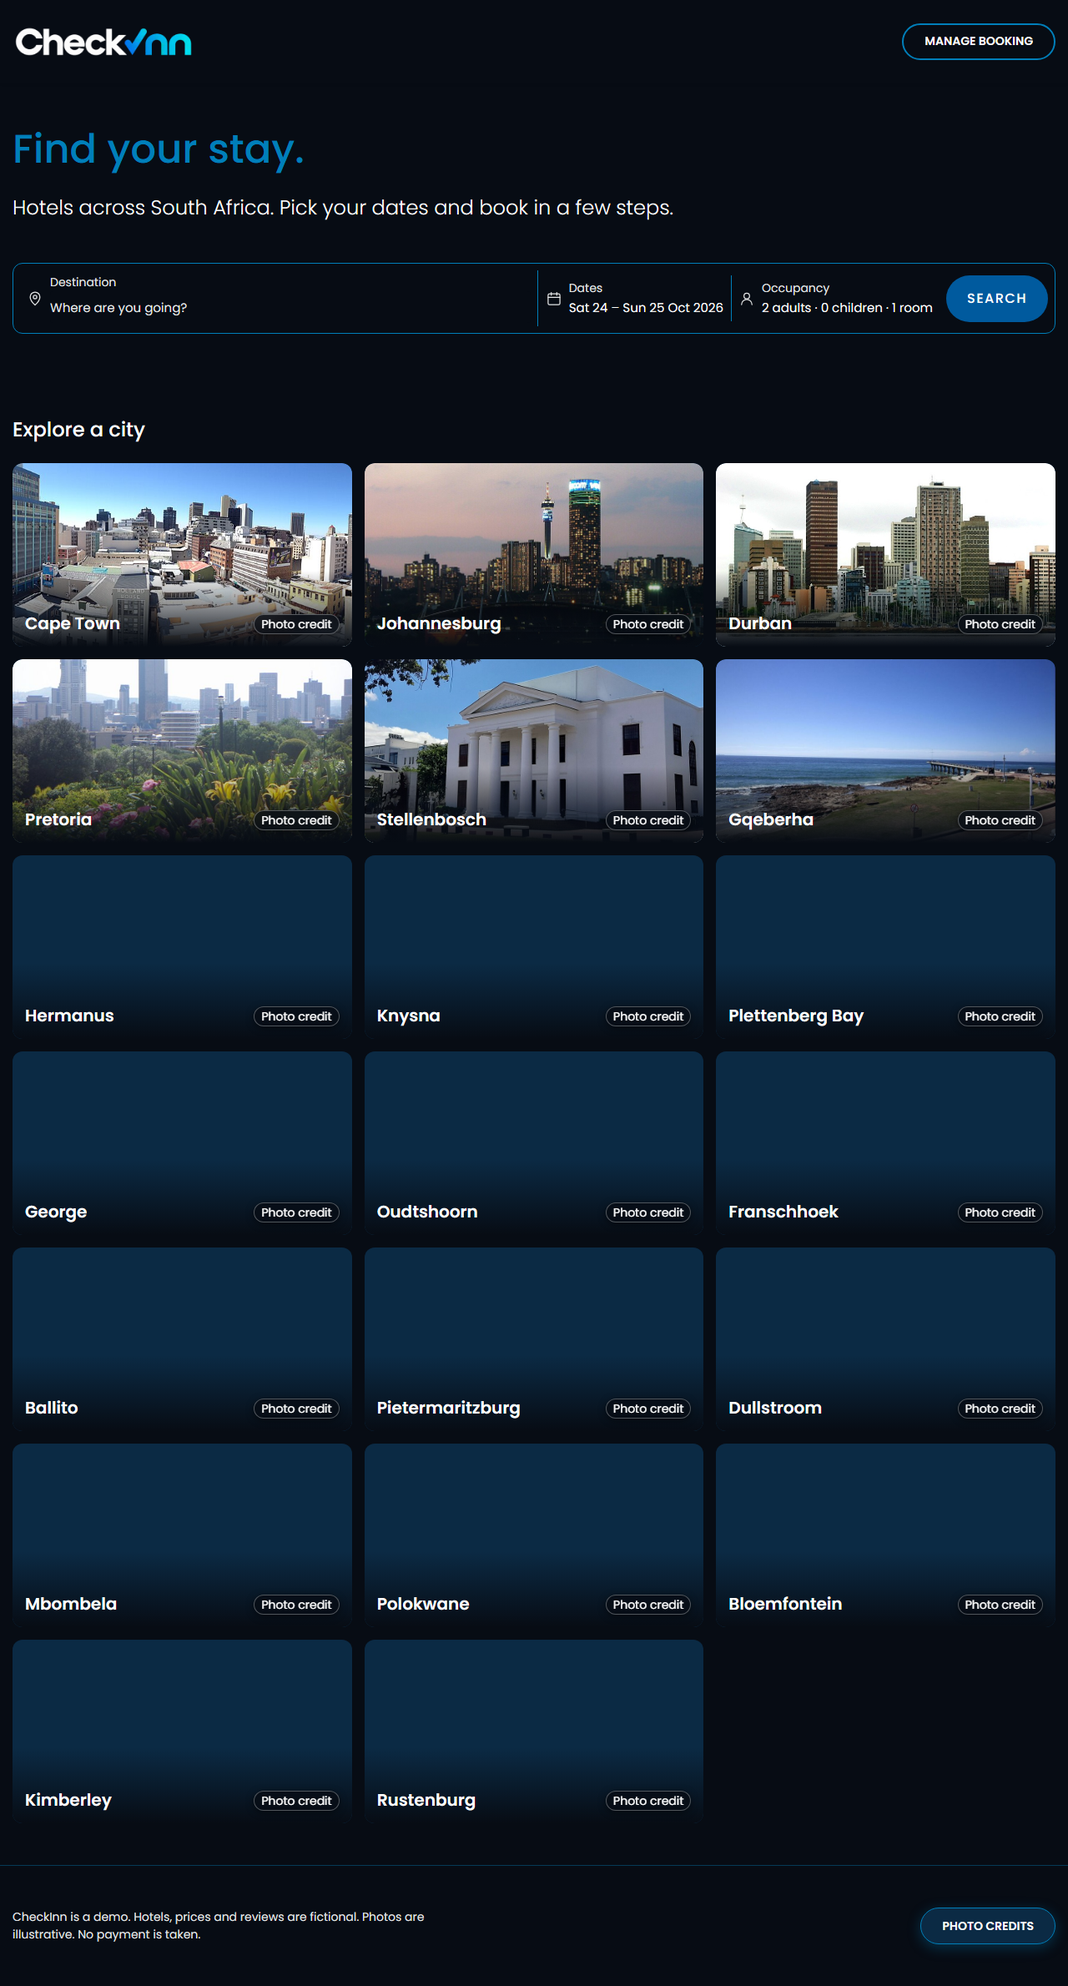
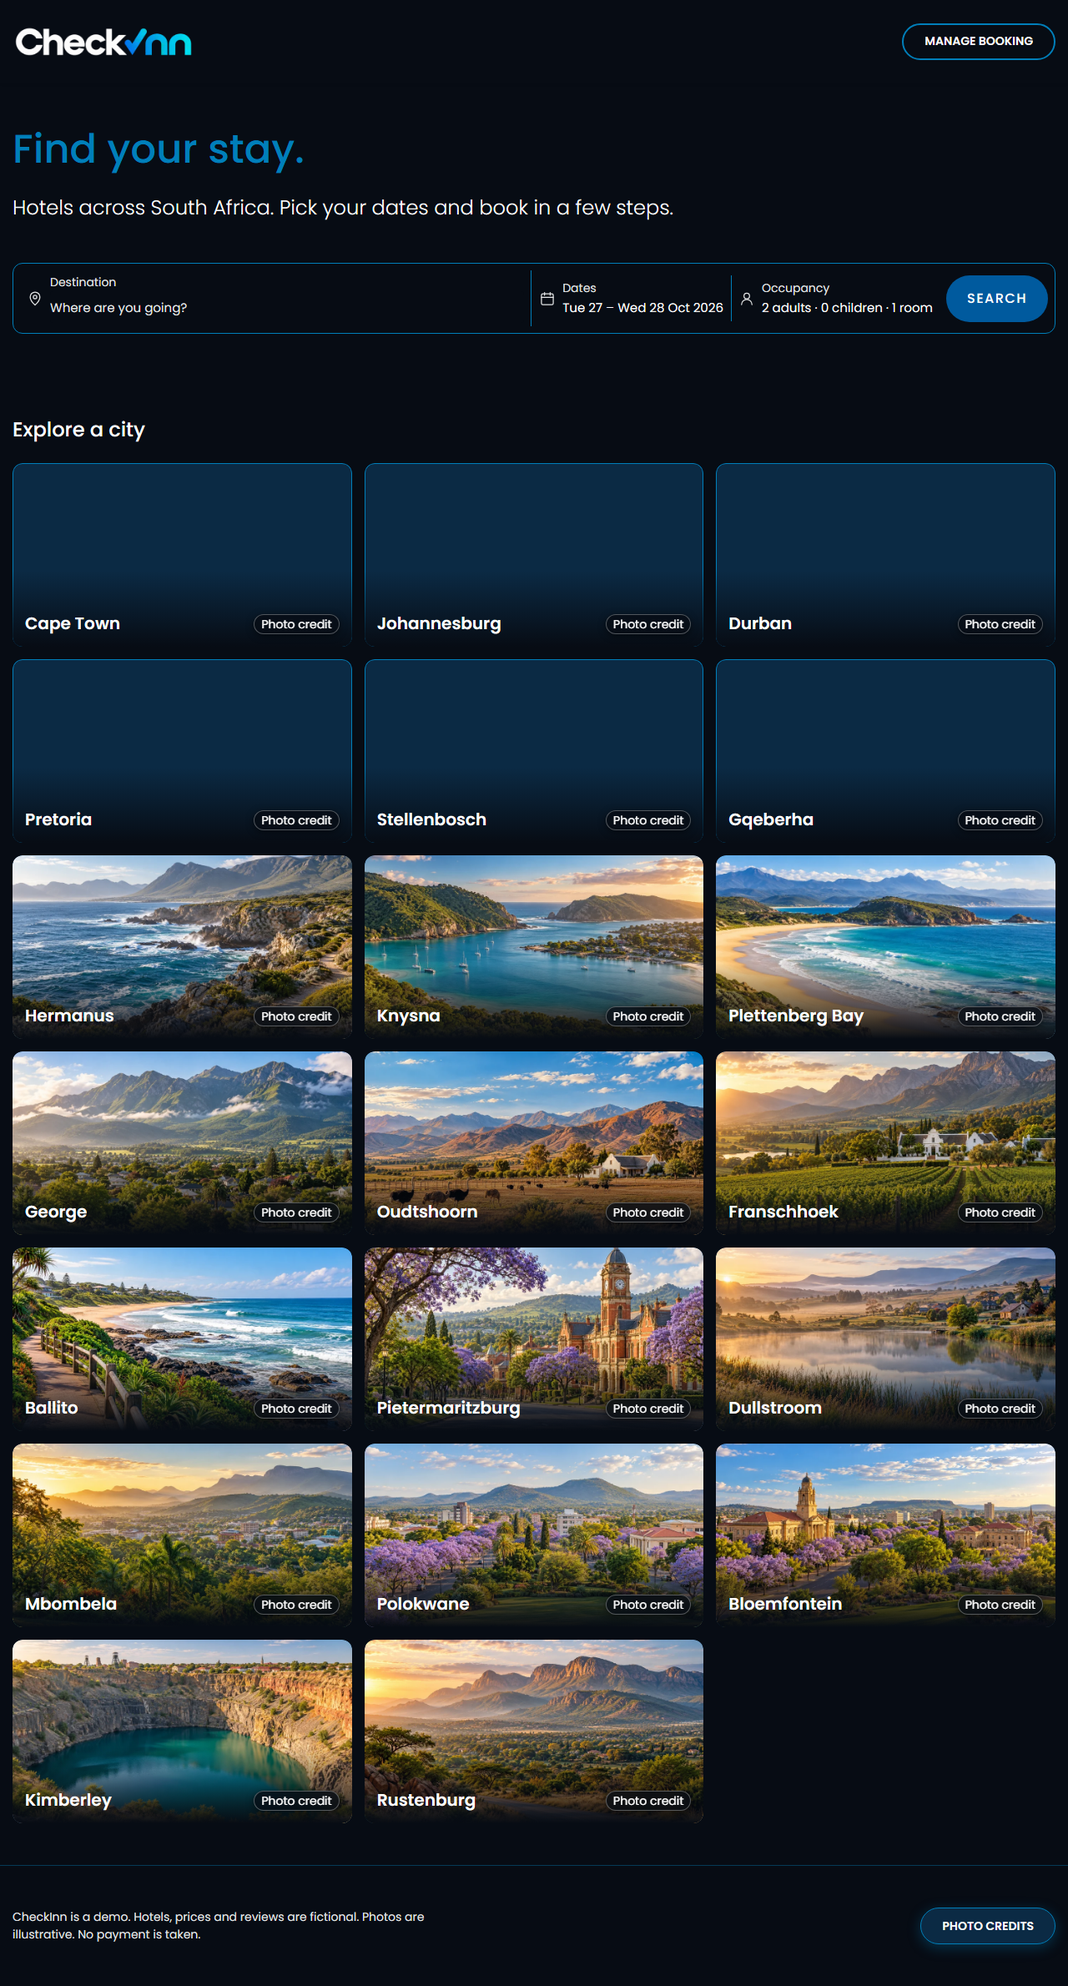
feat(data): add generated destination landscape images

diff --git a/e2e/home.spec.ts b/e2e/home.spec.ts
@@ -81,7 +81,7 @@ test.describe("Home page", () => {
     }
   });
 
-  test("shows placeholders with the name when photos are blocked", async ({
+  test("loads local destination images while remote photos show placeholders", async ({
     page,
   }) => {
     // Seed photos are aborted in beforeEach.
@@ -93,16 +93,35 @@ test.describe("Home page", () => {
       await tile.scrollIntoViewIfNeeded();
       const city = (await tile.getAttribute("aria-label")) ?? "";
 
-      const placeholder = tile.getByRole("img", {
+      const image = tile.getByRole("img", {
         name: /destination photograph/,
       });
-      await expect(placeholder).toBeVisible();
-      // Proves the failed <img> is gone; the placeholder also has role img.
-      await expect(tile.locator("img")).toHaveCount(0);
+      await expect(image).toBeVisible();
+      if ((await image.getAttribute("aria-label")) === null) {
+        await expect(image).toHaveAttribute("src", /^\/images\/destinations\//);
+        await expect(image).toHaveAttribute("alt", /^AI-generated/);
+        await expect.poll(() => image.evaluate((element) => (element as HTMLImageElement).naturalWidth)).toBeGreaterThan(0);
+      } else {
+        // A failed remote <img> is replaced by the labelled placeholder.
+        await expect(tile.locator("img")).toHaveCount(0);
+      }
       await expect(tile.getByText(city, { exact: true })).toBeVisible();
       await expect(
         page.getByRole("link", { name: `Photo credit: ${city}` }),
       ).toBeVisible();
+    }
+  });
+
+  test("shows named placeholders if local destination images also fail", async ({ page }) => {
+    await page.route("**/images/destinations/**", (route) => route.abort());
+    await page.goto("/");
+    const tiles = cityTiles(page);
+    await expect(tiles).toHaveCount(20);
+    for (const tile of await tiles.all()) {
+      await tile.scrollIntoViewIfNeeded();
+      await expect(tile.getByRole("img")).toBeVisible();
+      await expect(tile.locator("img")).toHaveCount(0);
+      await expect(tile.getByText((await tile.getAttribute("aria-label")) ?? "", { exact: true })).toBeVisible();
     }
   });
 

diff --git a/src/db/seed.test.ts b/src/db/seed.test.ts
@@ -1,5 +1,7 @@
 // @vitest-environment node
 import { createHash } from "node:crypto";
+import { readFileSync } from "node:fs";
+import path from "node:path";
 import { describe, expect, it } from "vitest";
 import { loadSeed } from "@/db/seed";
 
@@ -73,7 +75,7 @@ describe("demo catalog", () => {
     }
   });
 
-  it("reuses illustrative stock with attribution and honest destination labels", () => {
+  it("keeps hotel stock attribution and distinct local AI destination images", () => {
     const originals = new Map(seed.hotels.slice(0, 12).flatMap((hotel) => hotel.images.map((image) => [image.url, image])));
     for (const hotel of seed.hotels) {
       expect(hotel.images).toHaveLength(2);
@@ -85,11 +87,18 @@ describe("demo catalog", () => {
         expect(image.alt.length).toBeGreaterThan(0);
       }
     }
-    for (const city of seed.cities.slice(6)) {
-      expect(originals.has(city.image.url)).toBe(true);
+    const generatedCities = seed.cities.slice(6);
+    expect(new Set(generatedCities.map((city) => city.image.url)).size).toBe(14);
+    for (const city of generatedCities) {
+      expect(city.image.url).toBe(`/images/destinations/${city.id}.webp`);
+      expect(city.image.sourceUrl).toBe(city.image.url);
       expect(city.image.isIllustrative).toBe(true);
+      expect(city.image.alt).toContain(`AI-generated landscape inspired by ${city.name}`);
       expect(city.image.alt).toContain("not a destination photograph");
-      expect(city.image.creditInstructions).toContain("https://unsplash.com/license");
+      expect(city.image.creditInstructions).toContain("AI-generated with OpenAI ImageGen");
+      const asset = readFileSync(path.join(process.cwd(), "public", city.image.url));
+      expect(asset.subarray(0, 4).toString()).toBe("RIFF");
+      expect(asset.subarray(8, 12).toString()).toBe("WEBP");
     }
   });
 });

diff --git a/e2e/offline.spec.ts b/e2e/offline.spec.ts
@@ -23,14 +23,23 @@ test("Home → Cape Town search → Hotel page → photo viewer, all with the ne
 }) => {
   const network = await blockNetwork(page, baseURL);
 
-  // Home: City tiles show their placeholders with the City name.
+  // Home: remote photos show placeholders; local AI destination images still load.
   await page.goto("/");
   await expect(page.getByRole("heading", { level: 1, name: "Find your stay." })).toBeVisible();
   const tiles = page
     .getByRole("region", { name: "Explore a city" })
     .getByRole("link", { name: /^(?!Photo credit: )/ });
   await expect(tiles).toHaveCount(20);
-  await expectPlaceholders(tiles, 20);
+  const generatedTiles = tiles.filter({ has: page.getByRole("img", { name: /^AI-generated/ }) });
+  await expect(generatedTiles).toHaveCount(14);
+  await expectPlaceholders(tiles.filter({ hasNot: page.getByRole("img", { name: /^AI-generated/ }) }), 6);
+  for (const tile of await generatedTiles.all()) {
+    await tile.scrollIntoViewIfNeeded();
+    const image = tile.getByRole("img", { name: /^AI-generated/ });
+    await expect(image).toBeVisible();
+    await expect(image).toHaveAttribute("src", /^\/images\/destinations\//);
+    await expect.poll(() => image.evaluate((element) => (element as HTMLImageElement).naturalWidth)).toBeGreaterThan(0);
+  }
   for (const city of ["Cape Town", "Johannesburg", "Durban", "Pretoria", "Stellenbosch", "Gqeberha"]) {
     await expect(
       tiles.getByRole("img", { name: `${city} destination photograph`, exact: true }),

diff --git a/public/images/destinations/PROMPTS.md b/public/images/destinations/PROMPTS.md
@@ -1,0 +1,59 @@
+# Generated destination images
+
+Generated with the built-in OpenAI ImageGen tool on 26 October 2026. These are illustrative scenes inspired by each destination, not documentary photographs or verified depictions of specific buildings or properties. The original six destination photographs are unchanged. Generated PNG masters remain in the Codex generated-images folder; the application uses local 960 × 640 WebP copies.
+
+## hermanus.webp
+
+Use case: photorealistic-natural. Asset: landscape destination tile for a South African travel website, 3:2 horizontal composition. Generate an evocative editorial travel image inspired by Hermanus: rugged rocky coastal cliffs above deep blue Atlantic water, coastal fynbos and a winding clifftop path, distant mountains and soft sea spray, clear gentle morning light. Natural realistic textures, tasteful travel photography, rich but believable colours. Broad scenic view, main features centred and readable at small card size, lower quarter visually simple for a white UI destination label added separately. No text, lettering, logos, watermark, borders, hotel bedrooms, people close-up or invented landmark buildings. This is an illustrative AI-generated scene, not an exact documentary photograph. Produce one finished standalone image.
+
+## knysna.webp
+
+Use case: photorealistic-natural. Asset: one standalone 3:2 horizontal landscape destination tile for a South African hotel-booking website. Scene inspired by Knysna: An expansive turquoise lagoon opening to the ocean between two dramatic green headlands, forested hills, small waterside town and moored sailing boats; serene Garden Route late-afternoon light. Natural realistic textures, tasteful editorial travel photography, rich but believable colours. Broad scenic view, main features centred and readable at small card size, lower quarter visually simple for white UI labels added separately. No text, lettering, logos, watermark, borders, bedrooms, close-up people or imaginary famous monuments. Illustrative AI-generated travel scene rather than an exact documentary photograph. Produce one finished image.
+
+## plettenberg-bay.webp
+
+Use case: photorealistic-natural. Asset: one standalone 3:2 horizontal landscape destination tile for a South African hotel-booking website. Scene inspired by Plettenberg Bay: A broad golden beach curving around clear turquoise surf, a rugged green coastal peninsula in the distance and layered coastal mountains; bright inviting natural light. Natural realistic textures, tasteful editorial travel photography, rich but believable colours. Broad scenic view, main features centred and readable at small card size, lower quarter visually simple for white UI labels added separately. No text, lettering, logos, watermark, borders, bedrooms, close-up people or imaginary famous monuments. Illustrative AI-generated travel scene rather than an exact documentary photograph. Produce one finished image.
+
+## george.webp
+
+Use case: photorealistic-natural. Asset: one standalone 3:2 horizontal landscape destination tile for a South African hotel-booking website. Scene inspired by George: The green Outeniqua mountains rising behind a leafy South African town, rolling foothills, quiet tree-lined streets and low-rise rooftops; crisp morning light after rain. Natural realistic textures, tasteful editorial travel photography, rich but believable colours. Broad scenic view, main features centred and readable at small card size, lower quarter visually simple for white UI labels added separately. No text, lettering, logos, watermark, borders, bedrooms, close-up people or imaginary famous monuments. Illustrative AI-generated travel scene rather than an exact documentary photograph. Produce one finished image.
+
+## oudtshoorn.webp
+
+Use case: photorealistic-natural. Asset: one standalone 3:2 horizontal landscape destination tile for a South African hotel-booking website. Scene inspired by Oudtshoorn: A sunlit Little Karoo landscape with ochre earth, open ostrich-farm fields, a modest white rural farmhouse and folded semi-arid mountain ranges; warm clear light and immense sky. Natural realistic textures, tasteful editorial travel photography, rich but believable colours. Broad scenic view, main features centred and readable at small card size, lower quarter visually simple for white UI labels added separately. No text, lettering, logos, watermark, borders, bedrooms, close-up people or imaginary famous monuments. Illustrative AI-generated travel scene rather than an exact documentary photograph. Produce one finished image.
+
+## franschhoek.webp
+
+Use case: photorealistic-natural. Asset: one standalone 3:2 horizontal landscape destination tile for a South African hotel-booking website. Scene inspired by Franschhoek: Orderly green vineyard rows leading towards white Cape Dutch farm architecture, a lush valley and dramatic folded mountains; warm late-afternoon light and an elegant winelands atmosphere. Natural realistic textures, tasteful editorial travel photography, rich but believable colours. Broad scenic view, main features centred and readable at small card size, lower quarter visually simple for white UI labels added separately. No text, lettering, logos, watermark, borders, bedrooms, close-up people or imaginary famous monuments. Illustrative AI-generated travel scene rather than an exact documentary photograph. Produce one finished image.
+
+## ballito.webp
+
+Use case: photorealistic-natural. Asset: one standalone 3:2 horizontal landscape destination tile for a South African hotel-booking website. Scene inspired by Ballito: A scenic Dolphin Coast promenade beside pale golden sand, dark coastal rock pools and rolling warm blue Indian Ocean waves, lush subtropical coastal vegetation and a few distant beachfront rooftops; bright relaxed morning light. Natural realistic textures, tasteful editorial travel photography, rich but believable colours. Broad scenic view, main features centred and readable at small card size, lower quarter visually simple for white UI labels added separately. No text, lettering, logos, watermark, borders, bedrooms, close-up people or imaginary famous monuments. Illustrative AI-generated travel scene rather than an exact documentary photograph. Produce one finished image.
+
+## pietermaritzburg.webp
+
+Use case: photorealistic-natural. Asset: one standalone 3:2 horizontal landscape destination tile for a South African hotel-booking website. Scene inspired by Pietermaritzburg: A leafy historic Midlands city streetscape with red-brick Victorian civic architecture and a modest clock tower among flowering jacaranda trees, green hills in the distance; warm spring daylight, little traffic. Natural realistic textures, tasteful editorial travel photography, rich but believable colours. Broad scenic view, main features centred and readable at small card size, lower quarter visually simple for white UI labels added separately. No text, lettering, logos, watermark, borders, bedrooms, close-up people or imaginary famous monuments. Illustrative AI-generated travel scene rather than an exact documentary photograph. Produce one finished image.
+
+## dullstroom.webp
+
+Use case: photorealistic-natural. Asset: one standalone 3:2 horizontal landscape destination tile for a South African hotel-booking website. Scene inspired by Dullstroom: A peaceful misty highveld village-edge landscape with a small trout dam, reeds, rolling golden-green grasslands, scattered stone cottages and distant blue hills; soft cool sunrise light. Natural realistic textures, tasteful editorial travel photography, rich but believable colours. Broad scenic view, main features centred and readable at small card size, lower quarter visually simple for white UI labels added separately. No text, lettering, logos, watermark, borders, bedrooms, close-up people or imaginary famous monuments. Illustrative AI-generated travel scene rather than an exact documentary photograph. Produce one finished image.
+
+## mbombela.webp
+
+Use case: photorealistic-natural. Asset: one standalone 3:2 horizontal landscape destination tile for a South African hotel-booking website. Scene inspired by Mbombela: A lush Lowveld town nestled among rolling green hills, subtropical trees and palms, a small sweep of low-rise urban rooftops and warm distant mountain haze; golden morning light. Natural realistic textures, tasteful editorial travel photography, rich but believable colours. Broad scenic view, main features centred and readable at small card size, lower quarter visually simple for white UI labels added separately. No text, lettering, logos, watermark, borders, bedrooms, close-up people or imaginary famous monuments. Illustrative AI-generated travel scene rather than an exact documentary photograph. Produce one finished image.
+
+## polokwane.webp
+
+Use case: photorealistic-natural. Asset: one standalone 3:2 horizontal landscape destination tile for a South African hotel-booking website. Scene inspired by Polokwane: An open Limpopo city landscape with flowering purple jacaranda-lined avenues, a green civic garden and modest low-rise buildings framed by distant savanna hills; clear warm South African spring light. Natural realistic textures, tasteful editorial travel photography, rich but believable colours. Broad scenic view, main features centred and readable at small card size, lower quarter visually simple for white UI labels added separately. No text, lettering, logos, watermark, borders, bedrooms, close-up people or imaginary famous monuments. Illustrative AI-generated travel scene rather than an exact documentary photograph. Produce one finished image.
+
+## bloemfontein.webp
+
+Use case: photorealistic-natural. Asset: one standalone 3:2 horizontal landscape destination tile for a South African hotel-booking website. Scene inspired by Bloemfontein: A leafy Free State city panorama with warm sandstone civic architecture, park gardens and broad jacaranda-lined streets beneath a vast blue sky; soft golden afternoon light, calm spacious atmosphere. Natural realistic textures, tasteful editorial travel photography, rich but believable colours. Broad scenic view, main features centred and readable at small card size, lower quarter visually simple for white UI labels added separately. No text, lettering, logos, watermark, borders, bedrooms, close-up people or imaginary famous monuments. Illustrative AI-generated travel scene rather than an exact documentary photograph. Produce one finished image.
+
+## kimberley.webp
+
+Use case: photorealistic-natural. Asset: one standalone 3:2 horizontal landscape destination tile for a South African hotel-booking website. Scene inspired by Kimberley: A scenic wide view inspired by Kimberley's Big Hole: the immense steep-sided historic mine excavation with turquoise water at the bottom, ochre layered rock walls and modest historic mining-town rooftops in the distance; clean warm afternoon light. Natural realistic textures, tasteful editorial travel photography, rich but believable colours. Broad scenic view, main features centred and readable at small card size, lower quarter visually simple for white UI labels added separately. No text, lettering, logos, watermark, borders, bedrooms, close-up people or imaginary famous monuments. Illustrative AI-generated travel scene rather than an exact documentary photograph. Produce one finished image.
+
+## rustenburg.webp
+
+Use case: photorealistic-natural. Asset: one standalone 3:2 horizontal landscape destination tile for a South African hotel-booking website. Scene inspired by Rustenburg: Rugged Magaliesberg mountain ridges rising above golden bushveld and leafy outskirts of a modest South African town, indigenous trees and a winding rural approach road; dramatic gentle early-morning light. Natural realistic textures, tasteful editorial travel photography, rich but believable colours. Broad scenic view, main features centred and readable at small card size, lower quarter visually simple for white UI labels added separately. No text, lettering, logos, watermark, borders, bedrooms, close-up people or imaginary famous monuments. Illustrative AI-generated travel scene rather than an exact documentary photograph. Produce one finished image.

diff --git a/_bmad-output/initiative-checkinn-smart-search/plan-expand-demo-catalog.md b/_bmad-output/initiative-checkinn-smart-search/plan-expand-demo-catalog.md
@@ -92,3 +92,4 @@ All must pass; no paid provider calls. Browser suite uses temporary databases an
 User correction on 2026-10-23: PR must target main. Rebuilt from main with only the catalog commit; omitted five Smart-search-specific test files absent from main and adapted the two shared repository tests to MVP APIs. Lint, typecheck and all 655 tests across 71 files pass. Rebase onto current origin/main before publishing; keep the Smart search feature and Azure-auth work excluded.
 
 Final main-based verification: npm run build passed with local worktree dependencies, lint/typecheck passed, all 655 unit/component tests passed, and CI=1 npm run test:e2e passed all 71 browser tests. PR page capture passed two desktop pages (Home and Hermanus); main's capture script assumes a missing mobile project, so capture was explicitly limited to chromium. PR #30 now targets main with only the data changes. The earlier build/browser blocker is resolved on this main-based checkout.
+2026-10-26 main-first image follow-up: user requested that the generated destination images land on main before integration into Smart search. Added 14 local 960x640 WebP illustrations, image metadata and recorded prompts; generator reads the metadata so regeneration keeps them. Preserved original city photos, hotel records and bookings. Main-only port excludes the Smart-search-specific interpretation expectation fix. Lint, typecheck, 655 unit tests, production build, 72 browser tests and a screenshot check decoding all 14 images passed. PR #30 requires one approving team review before main can be merged; do not bypass that rule or merge into Smart search before main lands.

diff --git a/README.md b/README.md
@@ -61,7 +61,7 @@ Ordinary search matches hotel names, areas, cities, city aliases and provinces. 
 | `hotels[].images[]` | `hotel_images` | Keyed by `hotel_id` and `position` in the array |
 | `hotels[].roomTypes[]` | `room_types` | `pricePerNight` becomes `price_per_night_rand`; `beds` and `amenities` are JSON text |
 
-`amenityLabels` and `metadata` are not stored. Seed photos load from Wikimedia Commons and Unsplash; when they can't, a placeholder shows instead. New properties reuse existing illustrative stock photos with their source and licence credits. New destination cards also use clearly labelled illustrative stock, rather than claiming to show those destinations. Hotel photos do not depict the fictional properties.
+`amenityLabels` and `metadata` are not stored. Original destination and hotel photos load from Wikimedia Commons and Unsplash; when they can't, a placeholder shows instead. New properties reuse existing illustrative stock photos with their source and licence credits. The 14 added destinations use distinct local AI-generated landscape illustrations under `public/images/destinations/`, so those tiles work without external image requests. Their credits identify them as illustrative generated scenes rather than documentary photographs. The image metadata lives in `data/seed/destination-images.json`, and prompts are recorded in `public/images/destinations/PROMPTS.md`. Hotel photos do not depict the fictional properties.
 
 ## Scripts
 
